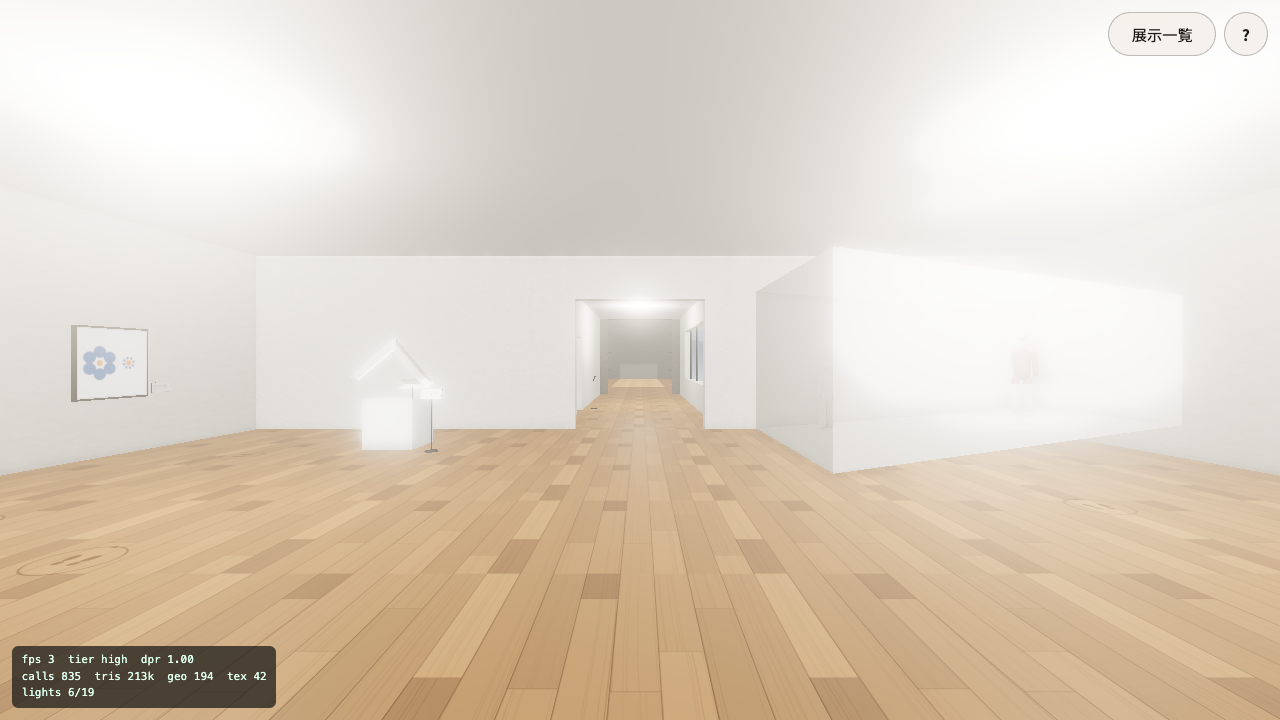
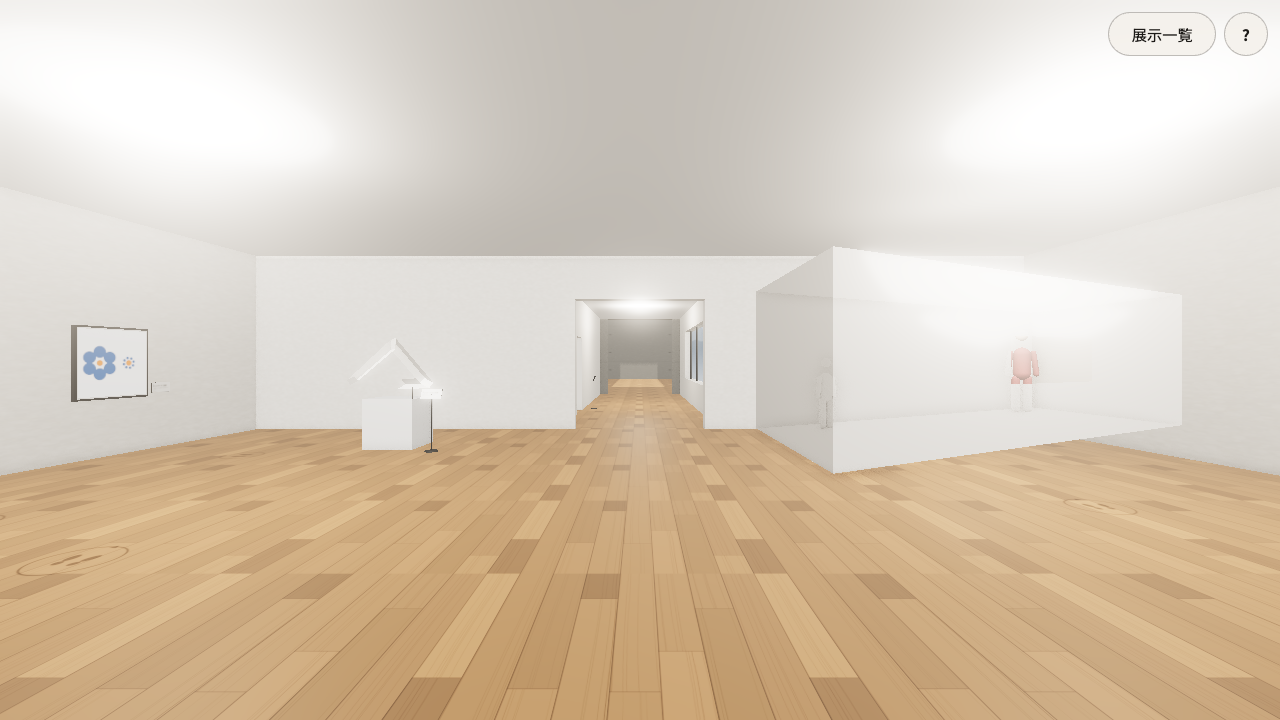
Phase 6: Bloom のしきい値を白い壁が滲まない値に上げる
高ティアで漆喰壁(線形値 ≈ 1.0)まで発光扱いになり画面全体が白飛びしていた。
しきい値を 1.25 にして天窓の空だけが滲むようにし、強さと半径も控えめにする。
高ティアの俯瞰スクリーンショットを更新。

diff --git a/src/app/PostProcess.ts b/src/app/PostProcess.ts
@@ -55,11 +55,12 @@ export class PostProcess {
       this.ao = ao;
     }
     if (settings.bloom) {
+      // しきい値はトーンマッピング前の線形値。白い壁(≈1.0)が滲まないよう、天窓の空(≈2.2)だけが超える値にする
       const bloom = new UnrealBloomPass(
         new THREE.Vector2(this.width, this.height),
-        0.32,
-        0.45,
-        0.88,
+        0.22,
+        0.3,
+        1.25,
       );
       composer.addPass(bloom);
       this.bloom = bloom;
